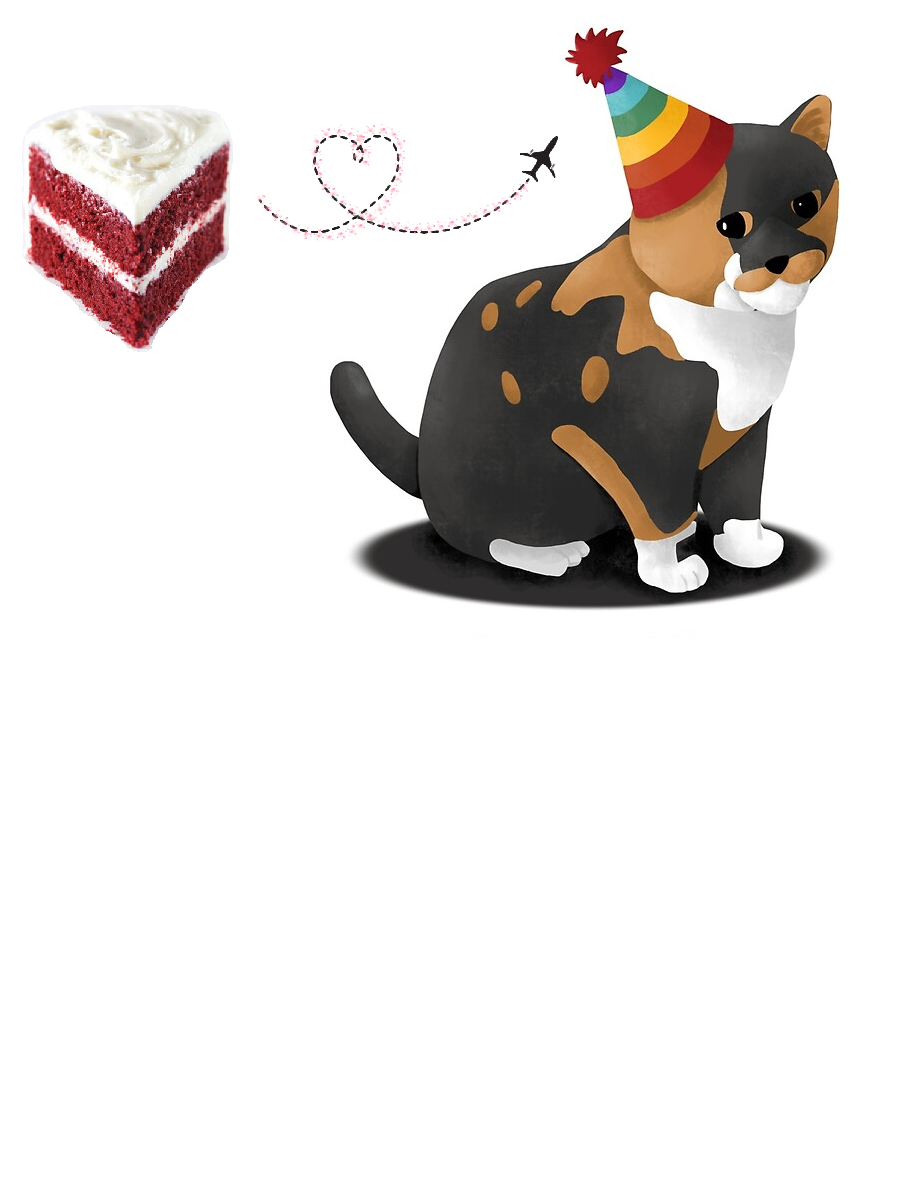
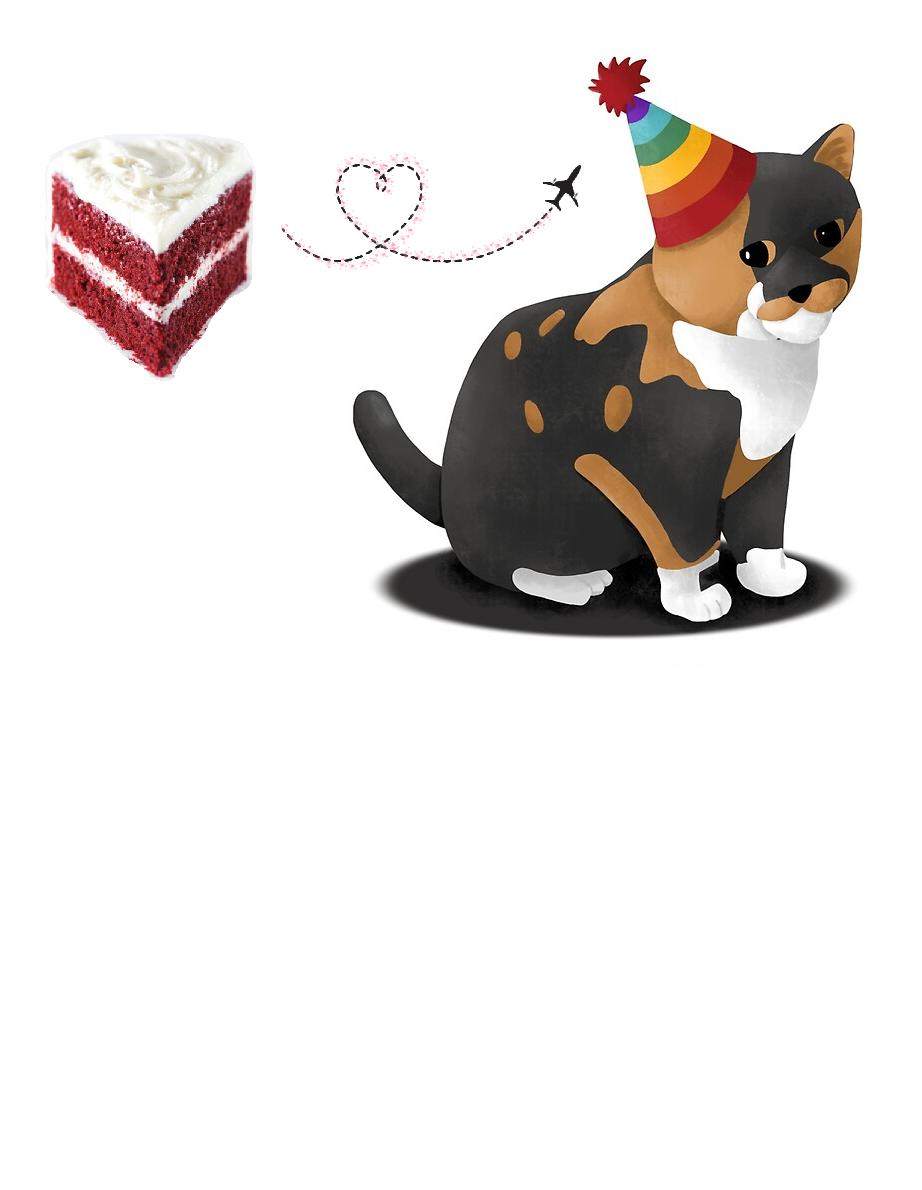
revert changes, update size

Changed region(s): [[0.3037, 0.0, 0.9414, 0.5597], [0.0304, 0.0933, 0.3037, 0.342]]

diff --git a/style.css b/style.css
@@ -55,7 +55,7 @@ body {
     font-style: italic;
     font-size: 30px;
     letter-spacing: 2px;
-    line-height: 40px;
+    line-height: 55px;
     position: relative;
     margin-top: 110px;
     background: #fb492c;
@@ -103,9 +103,9 @@ p.name {
 p.cake {
     font-family: "Lucida Console", Monaco, monospace;
     font-style: italic;
-    font-size: 13px;
+    font-size: 10px;
     position: relative;
-    margin-top: 150px;
+    margin-top: 120px;
     margin-left: -35px;
 }
 
